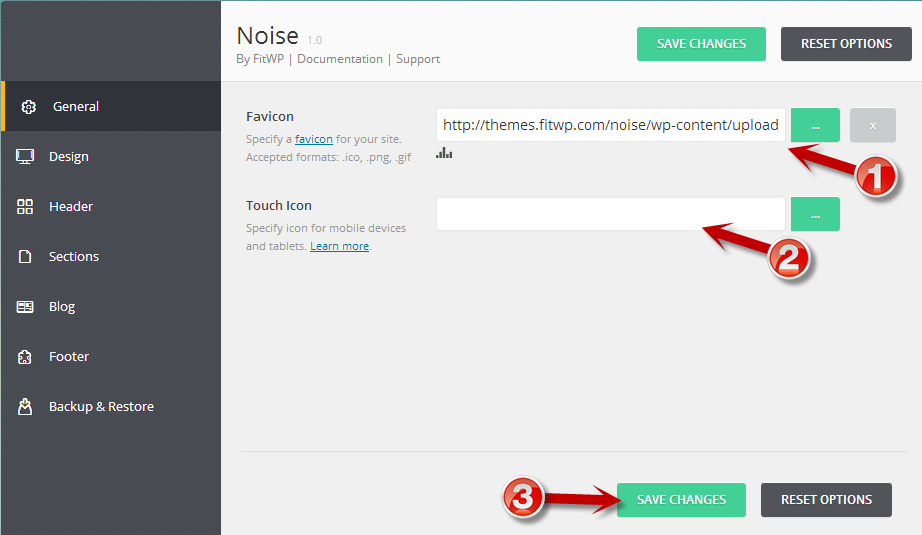
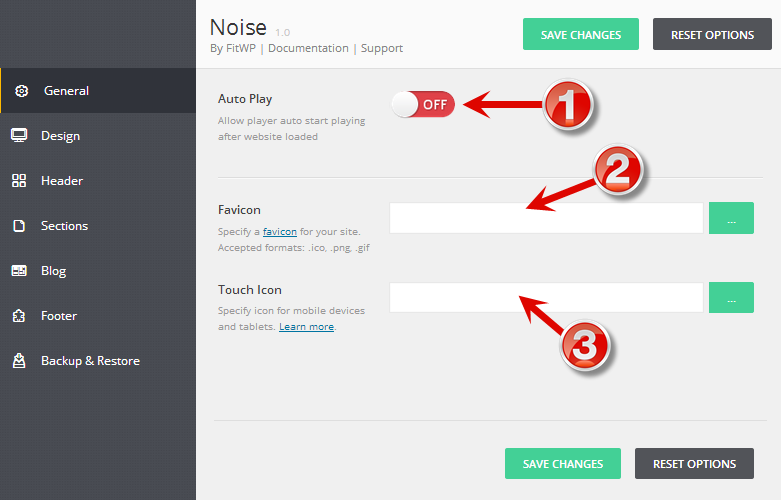
Bổ sung docs

diff --git a/noise/index.html b/noise/index.html
@@ -32,15 +32,24 @@ Best regards
 
 
 
+Resources
+=========
+
+- **Online Documentation:** (this file) http://fitwp.github.io/docs/noise/
+- **Video Tutorials:** http://vimeo.com/album/2743244
+- **Support Forum:** http://fitwp.com/envato-support/
+
+
+
+
 Theme Information
 =================
 
 - **Theme Name:** Noise WordPress Theme
 - **Version:** 1.0
-- **Theme URL:** [http://fitwp.com/themes/noise/](http://fitwp.com/themes/noise/)
+- **Theme URL:** http://fitwp.com/themes/noise/
 - **Author:** FitWP
-- **Author Website:** [FitWP](http://fitwp.com)
-- **Support:** [http://fitwp.com/envato-support/](http://fitwp.com/envato-support/)
+- **Author Website:** http://fitwp.com
 
 
 
@@ -190,10 +199,11 @@ General
 
 This sections contains:
 
-- **(1)**: favicon upload, allows you to upload favicon for you website
-- **(2)**: touch icon, allows you to upload icon for mobile devices and tablets
+- **(1)**: autoplay, allow the player auto plays music when website is loaded
+- **(2)**: favicon upload, allows you to upload favicon for you website
+- **(3)**: touch icon, allows you to upload icon for mobile devices and tablets
 
-After changing favicon and touch icon, click **(3)** to save changes.
+After changing favicon and touch icon, click **Save Changes**.
 
 
 
@@ -244,29 +254,38 @@ This sections contains:
 
 This section help you to select background pattern or image, and change how it appear.
 
-<div class="alert">All the background options are applied **only in boxed layout** (we'll reveal how to change boxed or wide layout in the next section).</div>
+![background](http://fitwp.github.io/docs/noise/background.png)
 
-![background](http://fitwp.github.io/docs/whisper/background.png)
+**(1)**: background color.
 
-**(1)**: select background pattern (background image). Noise has **5 predefined background patterns** for you to select from. These patterns are handy picked and match the theme design. If you don't have a background image, you can use one of them.
+**(2)**: background image. You can paste image URL here or upload the image to Media Library by clicking the upload button (the green one).
 
-**(2)**: background color. If you don't want to use an image for background, you can set background as a solid color. You can also do this if you have a background image with some transparent parts and you want to fill those parts with a solid color.
+**(3)**: background position X, can be `Left`, `Center` or `Right`.
 
-**(3)**: background image. This is similar to the **(1)** option, but here you specify you own background image. You can paste image URL here or upload the image to Media Library by clicking the upload button (the green one).
+**(4)**: background position Y, can be `Top`, `Center` or `Bottom`.
+
+**(5)**: background repeat, can be `Repeat`, `Repeat Horizontally`, `Repeat Vertically` or `No Repeat`
+
+**(6)**: background attachment, can be `Scroll` (will scroll when you scroll the content) or `Fixed` (will stay fixed when you scroll the content)
+
+**(7)**: parallax pattern. This is used as an **overlay** of background image. It's for better eye catching effect. You can leave it empty if you don't like the effect.
 
 <div class="alert alert-success">**Tips**: A lot of background patterns can be found at [Subtle Patterns](http://subtlepatterns.com/).</div>
 
-**(4)**: background position X, can be `Left`, `Center` or `Right`.
-
-**(5)**: background position Y, can be `Top`, `Center` or `Bottom`.
-
-**(6)**: background repeat, can be `Repeat`, `Repeat Horizontally`, `Repeat Vertically` or `No Repeat`
-
-**(7)**: background attachment, can be `Scroll` (will scroll when you scroll the content) or `Fixed` (will stay fixed when you scroll the content)
-
 After done, click **Save Changes** button to save your data. Now go to the frontend and check the background.
 
-<div class="alert alert-info">The options 4-7 are similar to CSS properties for background and a little technical. If you don't understand what they mean, just change the values, save and preview changes!</div>
+<div class="alert alert-info">The options 3-6 are similar to CSS properties for background and a little technical. If you don't understand what they mean, just change the values, save and preview changes!</div>
+
+
+
+
+### Custom CSS
+
+![custom css](http://fitwp.github.io/docs/noise/custom-css.png)
+
+This section allows to enter custom CSS that will be output in the `</head>`. This will **overwrite** CSS of theme, so please be careful!
+
+Custom CSS is useful when you want to adjust **small things** for your website. If you have to adjust a lot of things in website, please use [Child Themes](http://codex.wordpress.org/Child_Themes).
 
 
 
@@ -274,13 +293,13 @@ After done, click **Save Changes** button to save your data. Now go to the front
 Header
 ------
 
-![header](http://fitwp.github.io/docs/whisper/header.png)
+![header](http://fitwp.github.io/docs/noise/header.png)
 
 This sections contains:
 
 **(1)**: logo upload, allows you to upload logo for you website. You can either put the URL of the logo into the input box or upload the logo to Media Library. The live preview of the logo will appear below the inputs.
 
-**(2)**: logo size. Specify logo size in **px** here. It will help you resize the logo to correct dimensions. By default, the good size is **201x39**.
+**(2)**: logo size. Specify logo size in **px** here. It will help you resize the logo to correct dimensions. By default, the good size is **200x40**.
 
 <div class="alert alert-info">You should **resize the logo to correct size** in Photoshop or any image editor before upload. It will keep your logo not resized and small size.</div>
 
@@ -296,7 +315,67 @@ This sections contains:
 
 
 
-TODO: Bo sung cac section
+
+
+Sections
+--------
+
+This menu will let you reorder sections of Noise, as well as configure each section. Let's go to each submenu to see how it works.
+
+
+
+
+### Order Sections
+
+![order](http://fitwp.github.io/docs/noise/order.png)
+
+Here you can look at all sections available for Noise. You can drag and drop each section to reorder them as you want.
+
+<div class="alert">Note that you cannot disable sections here. Only reorder. Enable/disable sections will be different options in each section settings.</div>
+
+
+
+### Opener
+
+![opener](http://fitwp.github.io/docs/noise/opener.png)
+
+Opener is the screen you see when the preloader finished (100%). It mimics the "Slide to Unlock" effect on iOS. This part allows you to configure the opener with the following options:
+
+- **(1)**: enable/disable opener. If you don't like the opener at all, you can disable it here. **Note** the opener is shown only once when users first go to website, e.g. they don't have to "unlock" when they go throught all pages on the website.
+- **(2)**: opener logo. This option allows you to select logo for opener page. You can paste image URL here or upload it by clicking the green button.
+- **(3)**: unlock text. Put the text "Slide to Unlock" here.
+- **(4)**: background image. You can paste image URL here or upload it by clicking the green button.
+
+
+
+
+### Slider
+
+TODO: doi hinh vi thua option!
+![slider](http://fitwp.github.io/docs/noise/slider.png)
+
+This is the configuration for the top slider. Note that the theme slides **text only**, not images. When you click on arrows of the slider, only texts are changed.
+
+This section has the following options:
+
+- **(1)**: enable/disable opener. If you don't like the slider at all, you can disable it here.
+- **(2)**: background image. You can paste image URL here or upload it by clicking the green button.
+- **(3)**: slider 1's caption text. There're maximum 5 slides in this slider (more slides isn't good for user experience). You just need to enter texts for slides you want to show. For example, if you enter only 3 texts, the slider will shows only 3 slides.
+
+
+
+
+### Latest Tracks
+
+![latest](http://fitwp.github.io/docs/noise/latest.png)
+
+This section allows you to display **all** tracks of your website in a vertical slider.In the frontend you can scroll vertically to see all tracks. The configuration of this section is very simple:
+
+- **(1)**: enable/disable opener. If you don't like the latest tracks section at all, you can disable it here.
+- **(2)**: section title.
+- **(3)**: title suffix. This is a small letter after the section title. It's used for a better eye-catching effect.
+- **(4)**: subtitle.
+
 
 
 Blog
